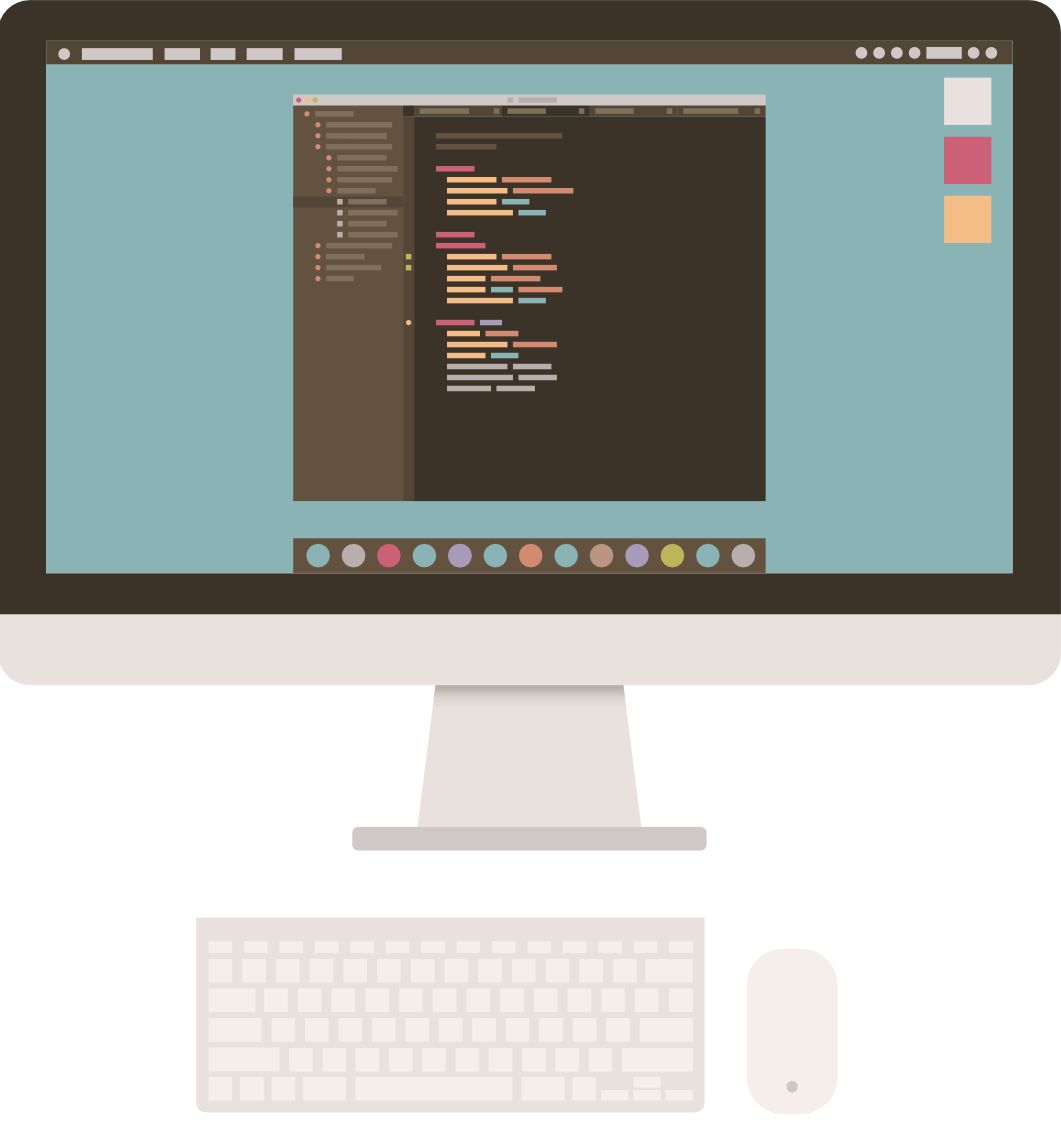
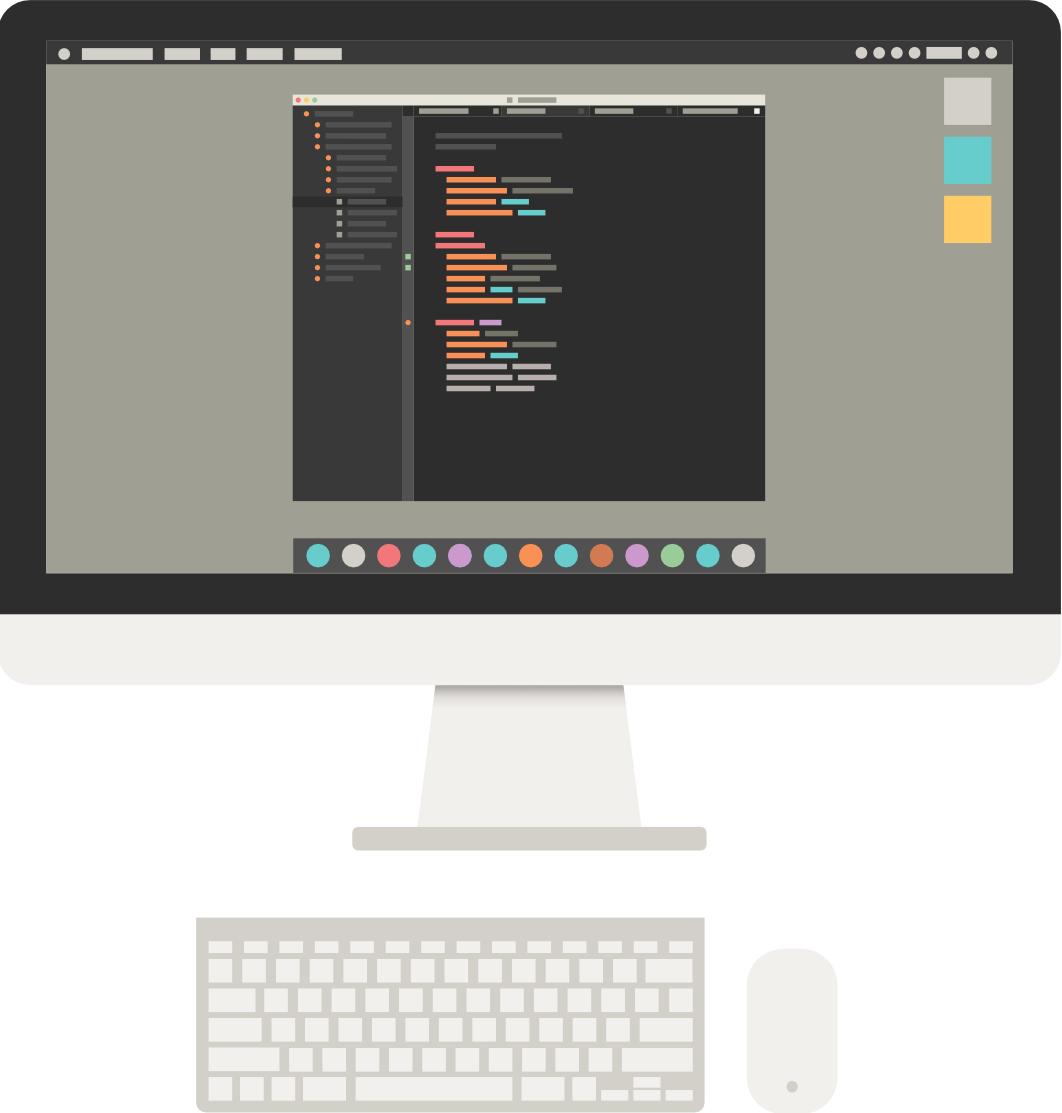
Adding a new header and SVG

diff --git a/public/assets/js/vivus.min.js b/public/assets/js/vivus.min.js
@@ -1,0 +1,7 @@
+/**
+ * vivus - JavaScript library to make drawing animation on SVG
+ * @version v0.3.0
+ * @link https://github.com/maxwellito/vivus
+ * @license MIT
+ */
+"use strict";!function(t,e){function r(r){if("undefined"==typeof r)throw new Error('Pathformer [constructor]: "element" parameter is required');if(r.constructor===String&&(r=e.getElementById(r),!r))throw new Error('Pathformer [constructor]: "element" parameter is not related to an existing ID');if(!(r.constructor instanceof t.SVGElement||/^svg$/i.test(r.nodeName)))throw new Error('Pathformer [constructor]: "element" parameter must be a string or a SVGelement');this.el=r,this.scan(r)}function n(t,e,r){this.isReady=!1,this.setElement(t,e),this.setOptions(e),this.setCallback(r),this.isReady&&this.init()}r.prototype.TYPES=["line","ellipse","circle","polygon","polyline","rect"],r.prototype.ATTR_WATCH=["cx","cy","points","r","rx","ry","x","x1","x2","y","y1","y2"],r.prototype.scan=function(t){for(var e,r,n,i,a=t.querySelectorAll(this.TYPES.join(",")),o=0;o<a.length;o++)r=a[o],e=this[r.tagName.toLowerCase()+"ToPath"],n=e(this.parseAttr(r.attributes)),i=this.pathMaker(r,n),r.parentNode.replaceChild(i,r)},r.prototype.lineToPath=function(t){var e={};return e.d="M"+t.x1+","+t.y1+"L"+t.x2+","+t.y2,e},r.prototype.rectToPath=function(t){var e={},r=parseFloat(t.x)||0,n=parseFloat(t.y)||0,i=parseFloat(t.width)||0,a=parseFloat(t.height)||0;return e.d="M"+r+" "+n+" ",e.d+="L"+(r+i)+" "+n+" ",e.d+="L"+(r+i)+" "+(n+a)+" ",e.d+="L"+r+" "+(n+a)+" Z",e},r.prototype.polylineToPath=function(t){var e,r,n={},i=t.points.trim().split(" ");if(-1===t.points.indexOf(",")){var a=[];for(e=0;e<i.length;e+=2)a.push(i[e]+","+i[e+1]);i=a}for(r="M"+i[0],e=1;e<i.length;e++)-1!==i[e].indexOf(",")&&(r+="L"+i[e]);return n.d=r,n},r.prototype.polygonToPath=function(t){var e=r.prototype.polylineToPath(t);return e.d+="Z",e},r.prototype.ellipseToPath=function(t){var e=t.cx-t.rx,r=t.cy,n=parseFloat(t.cx)+parseFloat(t.rx),i=t.cy,a={};return a.d="M"+e+","+r+"A"+t.rx+","+t.ry+" 0,1,1 "+n+","+i+"A"+t.rx+","+t.ry+" 0,1,1 "+e+","+i,a},r.prototype.circleToPath=function(t){var e={},r=t.cx-t.r,n=t.cy,i=parseFloat(t.cx)+parseFloat(t.r),a=t.cy;return e.d="M"+r+","+n+"A"+t.r+","+t.r+" 0,1,1 "+i+","+a+"A"+t.r+","+t.r+" 0,1,1 "+r+","+a,e},r.prototype.pathMaker=function(t,r){var n,i,a=e.createElementNS("http://www.w3.org/2000/svg","path");for(n=0;n<t.attributes.length;n++)i=t.attributes[n],-1===this.ATTR_WATCH.indexOf(i.name)&&a.setAttribute(i.name,i.value);for(n in r)a.setAttribute(n,r[n]);return a},r.prototype.parseAttr=function(t){for(var e,r={},n=0;n<t.length;n++){if(e=t[n],-1!==this.ATTR_WATCH.indexOf(e.name)&&-1!==e.value.indexOf("%"))throw new Error("Pathformer [parseAttr]: a SVG shape got values in percentage. This cannot be transformed into 'path' tags. Please use 'viewBox'.");r[e.name]=e.value}return r};var i,a,o;n.LINEAR=function(t){return t},n.EASE=function(t){return-Math.cos(t*Math.PI)/2+.5},n.EASE_OUT=function(t){return 1-Math.pow(1-t,3)},n.EASE_IN=function(t){return Math.pow(t,3)},n.EASE_OUT_BOUNCE=function(t){var e=-Math.cos(.5*t*Math.PI)+1,r=Math.pow(e,1.5),n=Math.pow(1-t,2),i=-Math.abs(Math.cos(2.5*r*Math.PI))+1;return 1-n+i*n},n.prototype.setElement=function(r,n){if("undefined"==typeof r)throw new Error('Vivus [constructor]: "element" parameter is required');if(r.constructor===String&&(r=e.getElementById(r),!r))throw new Error('Vivus [constructor]: "element" parameter is not related to an existing ID');if(this.parentEl=r,n&&n.file){var i=e.createElement("object");i.setAttribute("type","image/svg+xml"),i.setAttribute("data",n.file),i.setAttribute("built-by-vivus","true"),r.appendChild(i),r=i}switch(r.constructor){case t.SVGSVGElement:case t.SVGElement:this.el=r,this.isReady=!0;break;case t.HTMLObjectElement:var a,o;o=this,a=function(t){if(!o.isReady){if(o.el=r.contentDocument&&r.contentDocument.querySelector("svg"),!o.el&&t)throw new Error("Vivus [constructor]: object loaded does not contain any SVG");return o.el?(r.getAttribute("built-by-vivus")&&(o.parentEl.insertBefore(o.el,r),o.parentEl.removeChild(r),o.el.setAttribute("width","100%"),o.el.setAttribute("height","100%")),o.isReady=!0,o.init(),!0):void 0}},a()||r.addEventListener("load",a);break;default:throw new Error('Vivus [constructor]: "element" parameter is not valid (or miss the "file" attribute)')}},n.prototype.setOptions=function(e){var r=["delayed","async","oneByOne","scenario","scenario-sync"],i=["inViewport","manual","autostart"];if(void 0!==e&&e.constructor!==Object)throw new Error('Vivus [constructor]: "options" parameter must be an object');if(e=e||{},e.type&&-1===r.indexOf(e.type))throw new Error("Vivus [constructor]: "+e.type+" is not an existing animation `type`");if(this.type=e.type||r[0],e.start&&-1===i.indexOf(e.start))throw new Error("Vivus [constructor]: "+e.start+" is not an existing `start` option");if(this.start=e.start||i[0],this.isIE=-1!==t.navigator.userAgent.indexOf("MSIE")||-1!==t.navigator.userAgent.indexOf("Trident/")||-1!==t.navigator.userAgent.indexOf("Edge/"),this.duration=o(e.duration,120),this.delay=o(e.delay,null),this.dashGap=o(e.dashGap,1),this.forceRender=e.hasOwnProperty("forceRender")?!!e.forceRender:this.isIE,this.selfDestroy=!!e.selfDestroy,this.onReady=e.onReady,this.frameLength=this.currentFrame=this.map=this.delayUnit=this.speed=this.handle=null,this.ignoreInvisible=e.hasOwnProperty("ignoreInvisible")?!!e.ignoreInvisible:!1,this.animTimingFunction=e.animTimingFunction||n.LINEAR,this.pathTimingFunction=e.pathTimingFunction||n.LINEAR,this.delay>=this.duration)throw new Error("Vivus [constructor]: delay must be shorter than duration")},n.prototype.setCallback=function(t){if(t&&t.constructor!==Function)throw new Error('Vivus [constructor]: "callback" parameter must be a function');this.callback=t||function(){}},n.prototype.mapping=function(){var e,r,n,i,a,s,h,u;for(u=s=h=0,r=this.el.querySelectorAll("path"),e=0;e<r.length;e++)n=r[e],this.isInvisible(n)||(a={el:n,length:Math.ceil(n.getTotalLength())},isNaN(a.length)?t.console&&console.warn&&console.warn("Vivus [mapping]: cannot retrieve a path element length",n):(this.map.push(a),n.style.strokeDasharray=a.length+" "+(a.length+2*this.dashGap),n.style.strokeDashoffset=a.length+this.dashGap,a.length+=this.dashGap,s+=a.length,this.renderPath(e)));for(s=0===s?1:s,this.delay=null===this.delay?this.duration/3:this.delay,this.delayUnit=this.delay/(r.length>1?r.length-1:1),e=0;e<this.map.length;e++){switch(a=this.map[e],this.type){case"delayed":a.startAt=this.delayUnit*e,a.duration=this.duration-this.delay;break;case"oneByOne":a.startAt=h/s*this.duration,a.duration=a.length/s*this.duration;break;case"async":a.startAt=0,a.duration=this.duration;break;case"scenario-sync":n=r[e],i=this.parseAttr(n),a.startAt=u+(o(i["data-delay"],this.delayUnit)||0),a.duration=o(i["data-duration"],this.duration),u=void 0!==i["data-async"]?a.startAt:a.startAt+a.duration,this.frameLength=Math.max(this.frameLength,a.startAt+a.duration);break;case"scenario":n=r[e],i=this.parseAttr(n),a.startAt=o(i["data-start"],this.delayUnit)||0,a.duration=o(i["data-duration"],this.duration),this.frameLength=Math.max(this.frameLength,a.startAt+a.duration)}h+=a.length,this.frameLength=this.frameLength||this.duration}},n.prototype.drawer=function(){var t=this;this.currentFrame+=this.speed,this.currentFrame<=0?(this.stop(),this.reset(),this.callback(this)):this.currentFrame>=this.frameLength?(this.stop(),this.currentFrame=this.frameLength,this.trace(),this.selfDestroy&&this.destroy(),this.callback(this)):(this.trace(),this.handle=i(function(){t.drawer()}))},n.prototype.trace=function(){var t,e,r,n;for(n=this.animTimingFunction(this.currentFrame/this.frameLength)*this.frameLength,t=0;t<this.map.length;t++)r=this.map[t],e=(n-r.startAt)/r.duration,e=this.pathTimingFunction(Math.max(0,Math.min(1,e))),r.progress!==e&&(r.progress=e,r.el.style.strokeDashoffset=Math.floor(r.length*(1-e)),this.renderPath(t))},n.prototype.renderPath=function(t){if(this.forceRender&&this.map&&this.map[t]){var e=this.map[t],r=e.el.cloneNode(!0);e.el.parentNode.replaceChild(r,e.el),e.el=r}},n.prototype.init=function(){this.frameLength=0,this.currentFrame=0,this.map=[],new r(this.el),this.mapping(),this.starter(),this.onReady&&this.onReady(this)},n.prototype.starter=function(){switch(this.start){case"manual":return;case"autostart":this.play();break;case"inViewport":var e=this,r=function(){e.isInViewport(e.parentEl,1)&&(e.play(),t.removeEventListener("scroll",r))};t.addEventListener("scroll",r),r()}},n.prototype.getStatus=function(){return 0===this.currentFrame?"start":this.currentFrame===this.frameLength?"end":"progress"},n.prototype.reset=function(){return this.setFrameProgress(0)},n.prototype.finish=function(){return this.setFrameProgress(1)},n.prototype.setFrameProgress=function(t){return t=Math.min(1,Math.max(0,t)),this.currentFrame=Math.round(this.frameLength*t),this.trace(),this},n.prototype.play=function(t){if(t&&"number"!=typeof t)throw new Error("Vivus [play]: invalid speed");return this.speed=t||1,this.handle||this.drawer(),this},n.prototype.stop=function(){return this.handle&&(a(this.handle),this.handle=null),this},n.prototype.destroy=function(){var t,e;for(t=0;t<this.map.length;t++)e=this.map[t],e.el.style.strokeDashoffset=null,e.el.style.strokeDasharray=null,this.renderPath(t)},n.prototype.isInvisible=function(t){var e,r=t.getAttribute("data-ignore");return null!==r?"false"!==r:this.ignoreInvisible?(e=t.getBoundingClientRect(),!e.width&&!e.height):!1},n.prototype.parseAttr=function(t){var e,r={};if(t&&t.attributes)for(var n=0;n<t.attributes.length;n++)e=t.attributes[n],r[e.name]=e.value;return r},n.prototype.isInViewport=function(t,e){var r=this.scrollY(),n=r+this.getViewportH(),i=t.getBoundingClientRect(),a=i.height,o=r+i.top,s=o+a;return e=e||0,n>=o+a*e&&s>=r},n.prototype.docElem=t.document.documentElement,n.prototype.getViewportH=function(){var e=this.docElem.clientHeight,r=t.innerHeight;return r>e?r:e},n.prototype.scrollY=function(){return t.pageYOffset||this.docElem.scrollTop},i=function(){return t.requestAnimationFrame||t.webkitRequestAnimationFrame||t.mozRequestAnimationFrame||t.oRequestAnimationFrame||t.msRequestAnimationFrame||function(e){return t.setTimeout(e,1e3/60)}}(),a=function(){return t.cancelAnimationFrame||t.webkitCancelAnimationFrame||t.mozCancelAnimationFrame||t.oCancelAnimationFrame||t.msCancelAnimationFrame||function(e){return t.clearTimeout(e)}}(),o=function(t,e){var r=parseInt(t,10);return r>=0?r:e},"function"==typeof define&&define.amd?define([],function(){return n}):"object"==typeof exports?module.exports=n:t.Vivus=n}(window,document);

diff --git a/public/assets/styles/main.scss b/public/assets/styles/main.scss
@@ -36,8 +36,8 @@
  */
 
 .introduction {
-    background-color: $color-light;
-    color: $color-dark;
+    background-color: $color-dark;
+    color: $color-light;
     position: relative;
 
     .container {
@@ -62,8 +62,8 @@
     font-size: ms(5);
     line-height: ms(6);
     font-weight: 500;
-    color: $color-darker;
-    margin: 0 auto ms(0);
+    color: $color-lightest;
+    margin: ms(0) auto ms(0);
 }
 
 .introduction-subtitle {
@@ -71,7 +71,7 @@
     line-height: ms(4);
     font-weight: 300;
     font-style: normal;
-    color: $color-dark;
+    color: $color-light;
     margin: 0;
 }
 

diff --git a/public/assets/styles/partials/_header.scss b/public/assets/styles/partials/_header.scss
@@ -13,10 +13,13 @@
         }
     }
 	
-	.index &,
     .contact &,
 	.about & {
 		background-color: $color-light;
+    }
+    
+    .index & {
+        background-color: $color-dark;
     }
 	
 	@media #{$device-medium} {
@@ -118,6 +121,10 @@
             -moz-transform: scale(1.5);
             -ms-transform: scale(1.5);
             transform: scale(1.5);
+            
+            .index & {
+                background: $color-darker;
+            }
             
             &:after {
             -webkit-animation: sonarEffect 1s ease-out 75ms;
